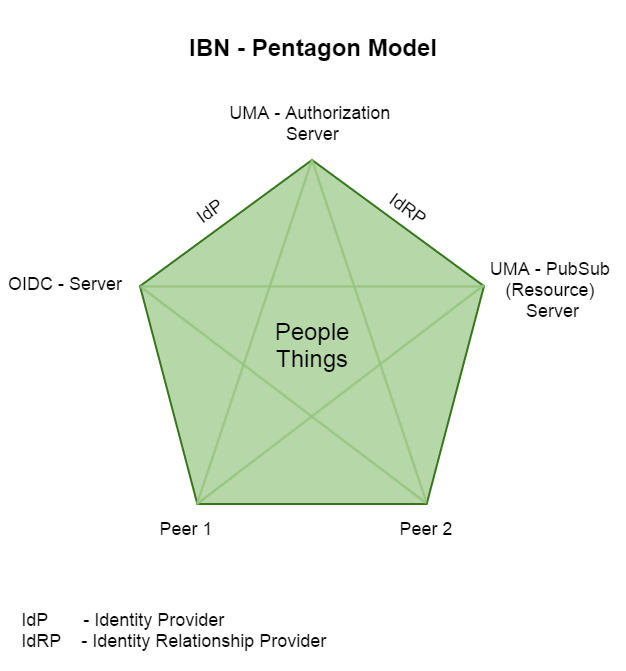
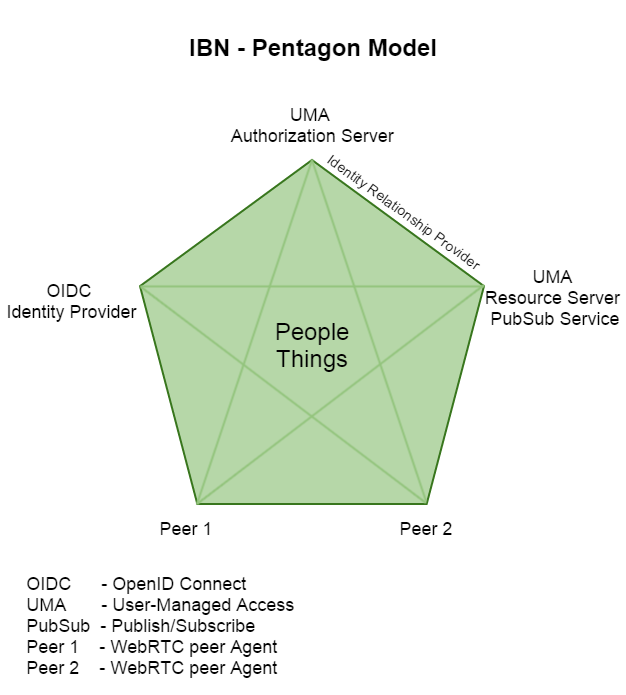
IBN overall update

diff --git a/ibn.html b/ibn.html
@@ -76,11 +76,10 @@
 						
 						<p>
 							The IBN architecture that is built on top of the WebRTC network can be thought of as a network of trust identities.
-							The WebRTC peer-to-peer technology in combination with federated <a href="#idrp">Identity and Identity Relationship Providers</a> creates a composite IBN architecture that meets the needs of the Internet of Everything ecosystem.
 						</p>
 
 						<p>
-							<b>IBN - Pentagon Model for Internet of Everything</b>
+							<b>IBN - Conceptual Architecture</b>
 						</p>	
 
 						<p>
@@ -88,50 +87,52 @@
 						</p>
 												
 						<p>
-							This trust-to-trust communication can be divided into six phases.
+						    The <a name="idrp">Identity Relationship Provider</a> (IdRP) is a trusted place that, after credential validation, issues identity relationship information and where <a href="irm.html">relationship management</a> takes place.
 						</p>
 						
 						<p>
-							<b>IBN Architecture - Phase I-III.</b></br>
+							The UMA authorization server acts as an OpenID Connect Relying Party.
+							The Publish-Subscribe service is known as a "protected resource" and can be integrated into the UMA service or run on an external Resource Server.
+							The UMA authorization server controls, via Publish-Subscribe service, relationships between users, agents and between users and agents.
+						</p>
+						
+						<p>
+							The Agent, can be for example, the User Agent, Hub Agent, File Transfer Agent or the Internet of Things Agent (Home Health Monitoring, Refrigerator etc.).
+						</p>
+						
+						<p>
+							This trust-to-trust communication between all five parties can be divided into six phases.
+						</p>
+						
+						<p>
+							<b>IBN communication - Phase I-III.</b></br>
 							register, get authorization, set up a relationship</br>
 							<img src="images/IBN-I-III.png" alt="IBN Phase I-III." style="max-width: 100%;max-height: 100%"/>
 							
 						</p>
 
 						<p>
-							<b>IBN Architecture - Phase IV-V.</b></br>
+							<b>IBN communication - Phase IV-V.</b></br>
 							get authorization, session establishment</br>
 							<img src="images/IBN-IV-V.png" alt="IBN Phase IV-V." style="max-width: 100%;max-height: 100%"/>
 							
 						</p>
 						
 						<p>
-							<b>IBN Architecture - Phase VI.</b></br>
+							<b>IBN communication - Phase VI.</b></br>
 							exchange data</br>
 							<img src="images/IBN-VI.png" alt="IBN Phase VI." style="max-width: 100%;max-height: 100%"/>
 							
 						</p>
 						
 						<p>
-							The Agent, can be for example, the User Agent, the Hub Agent, the File Transfer Agent or the Internet of Things Agent (Home Health Monitoring Agent, Refrigerator Agent etc.).
-						</p>
-						
-						<p>
-							The Relationship Controller controls relationships between users, agents and between users and agents.
-						</p>
-						
-						<p>
-						    The <a name="idrp">Identity Relationship Provider</a> (IdRP) is a trusted place that, after credential validation, issues identity relationship information and where <a href="irm.html">relationship management</a> takes place.
-						</p>
-						
-						<p>
-							The Publish-Subscribe Service can be integrated into the IdRP or run as an external Relaying Party.
+							The WebRTC peer-to-peer technology in combination with federated Identity and Identity Relationship Providers creates a composite IBN architecture that meets the needs of the Internet of Everything ecosystem.
 						</p>
 						
 						<p>
 							This architecture does not add an extra layer to the network stack, it is a pure combination of existing systems and technologies and thus the overhead added by IBN architecture to the existing network infrastructure is negligible.
 						</p>
-												
+							
 						<p>
 							An identity-based network communication approach is a better fit for the distributed nature of cloud computing and has intrinsic privacy-preserving properties.
 						</p>
